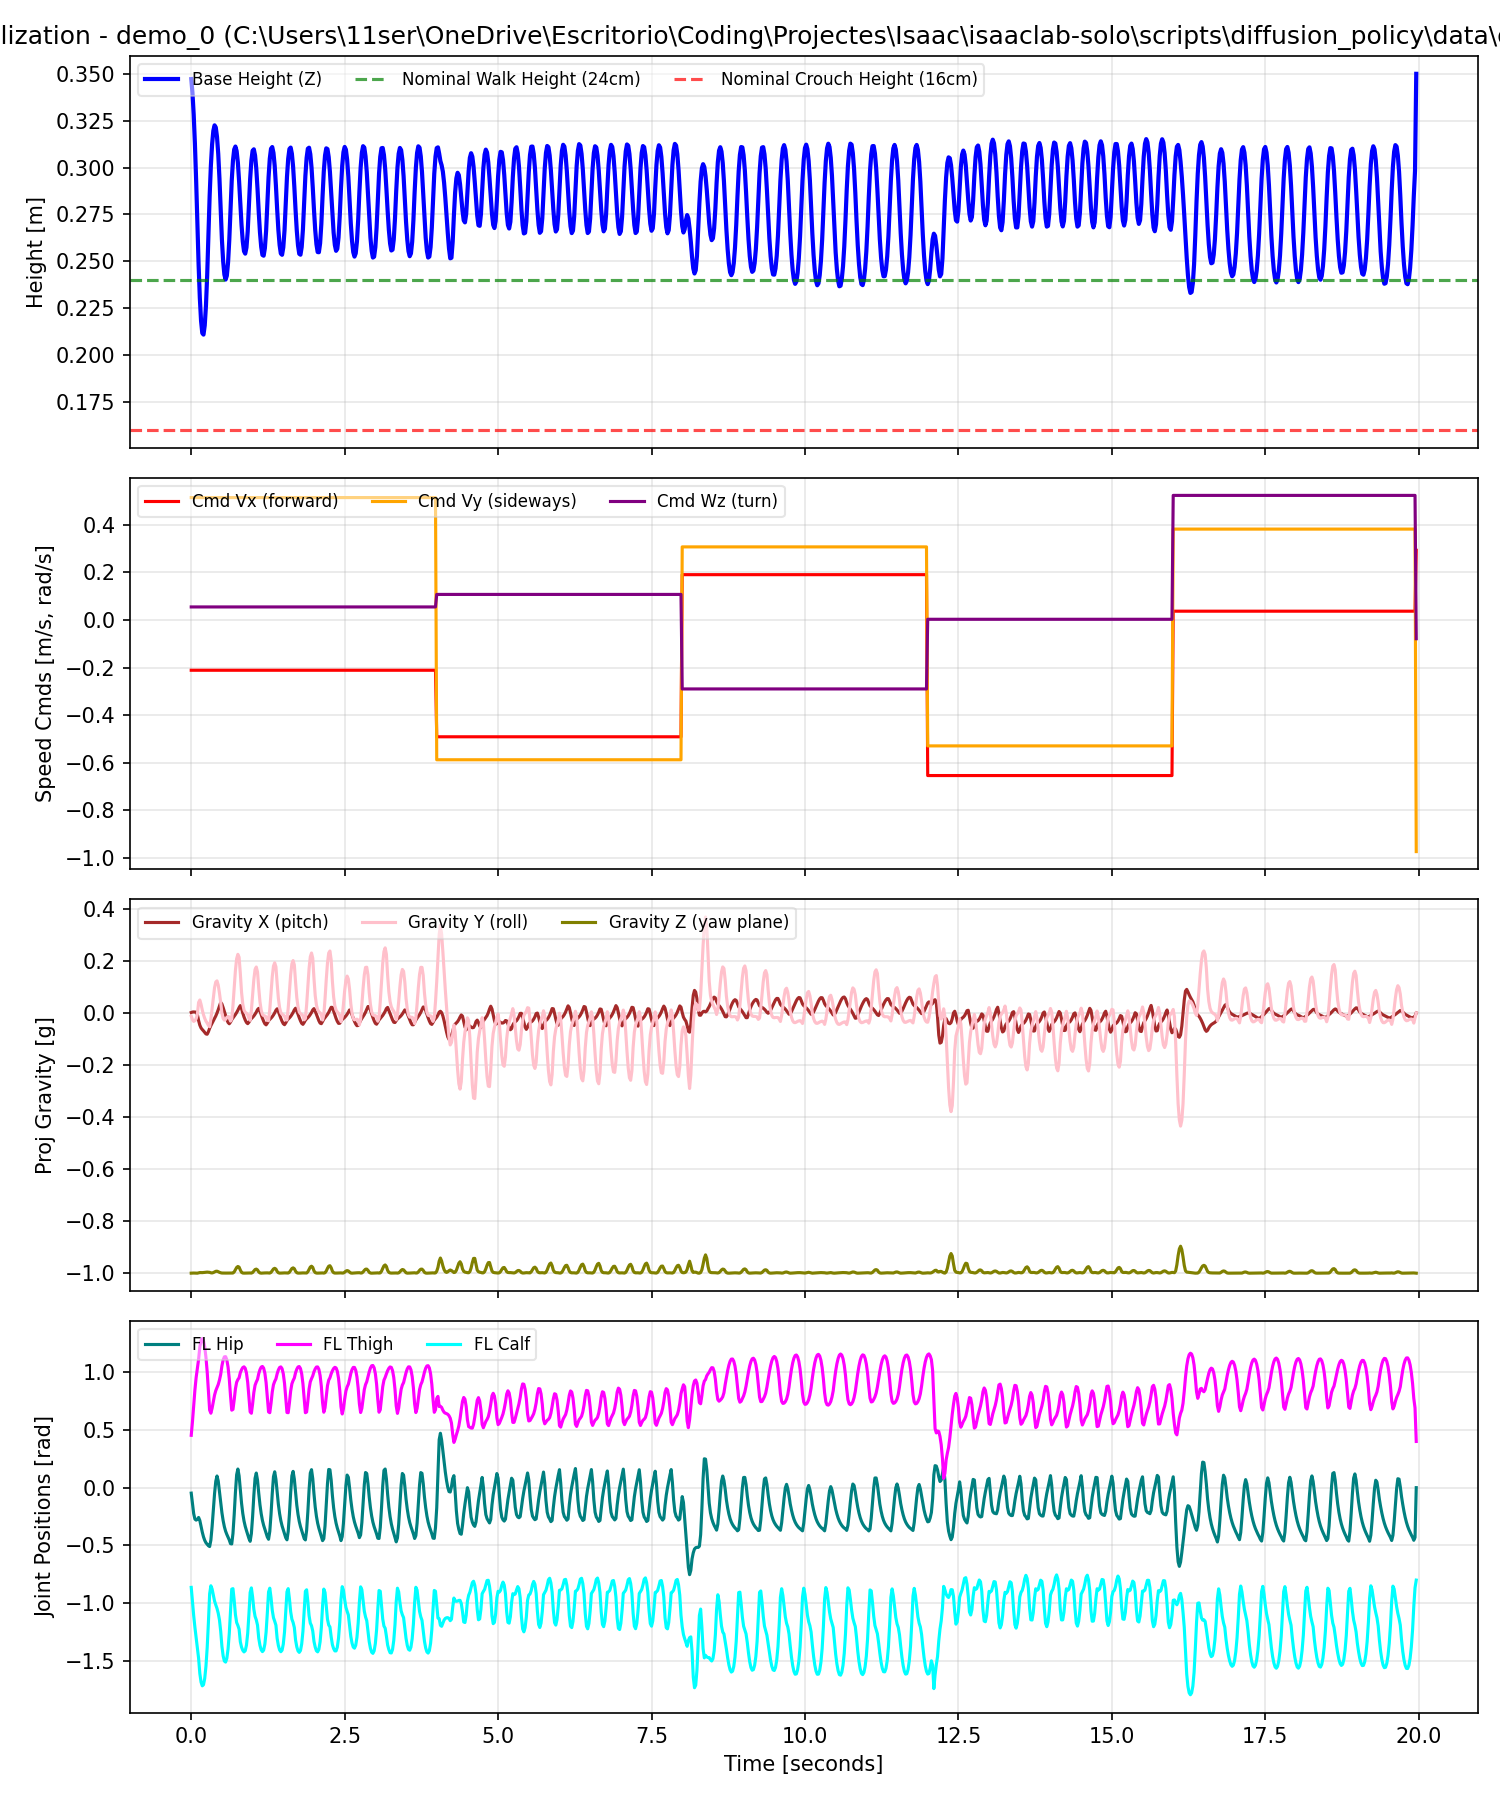
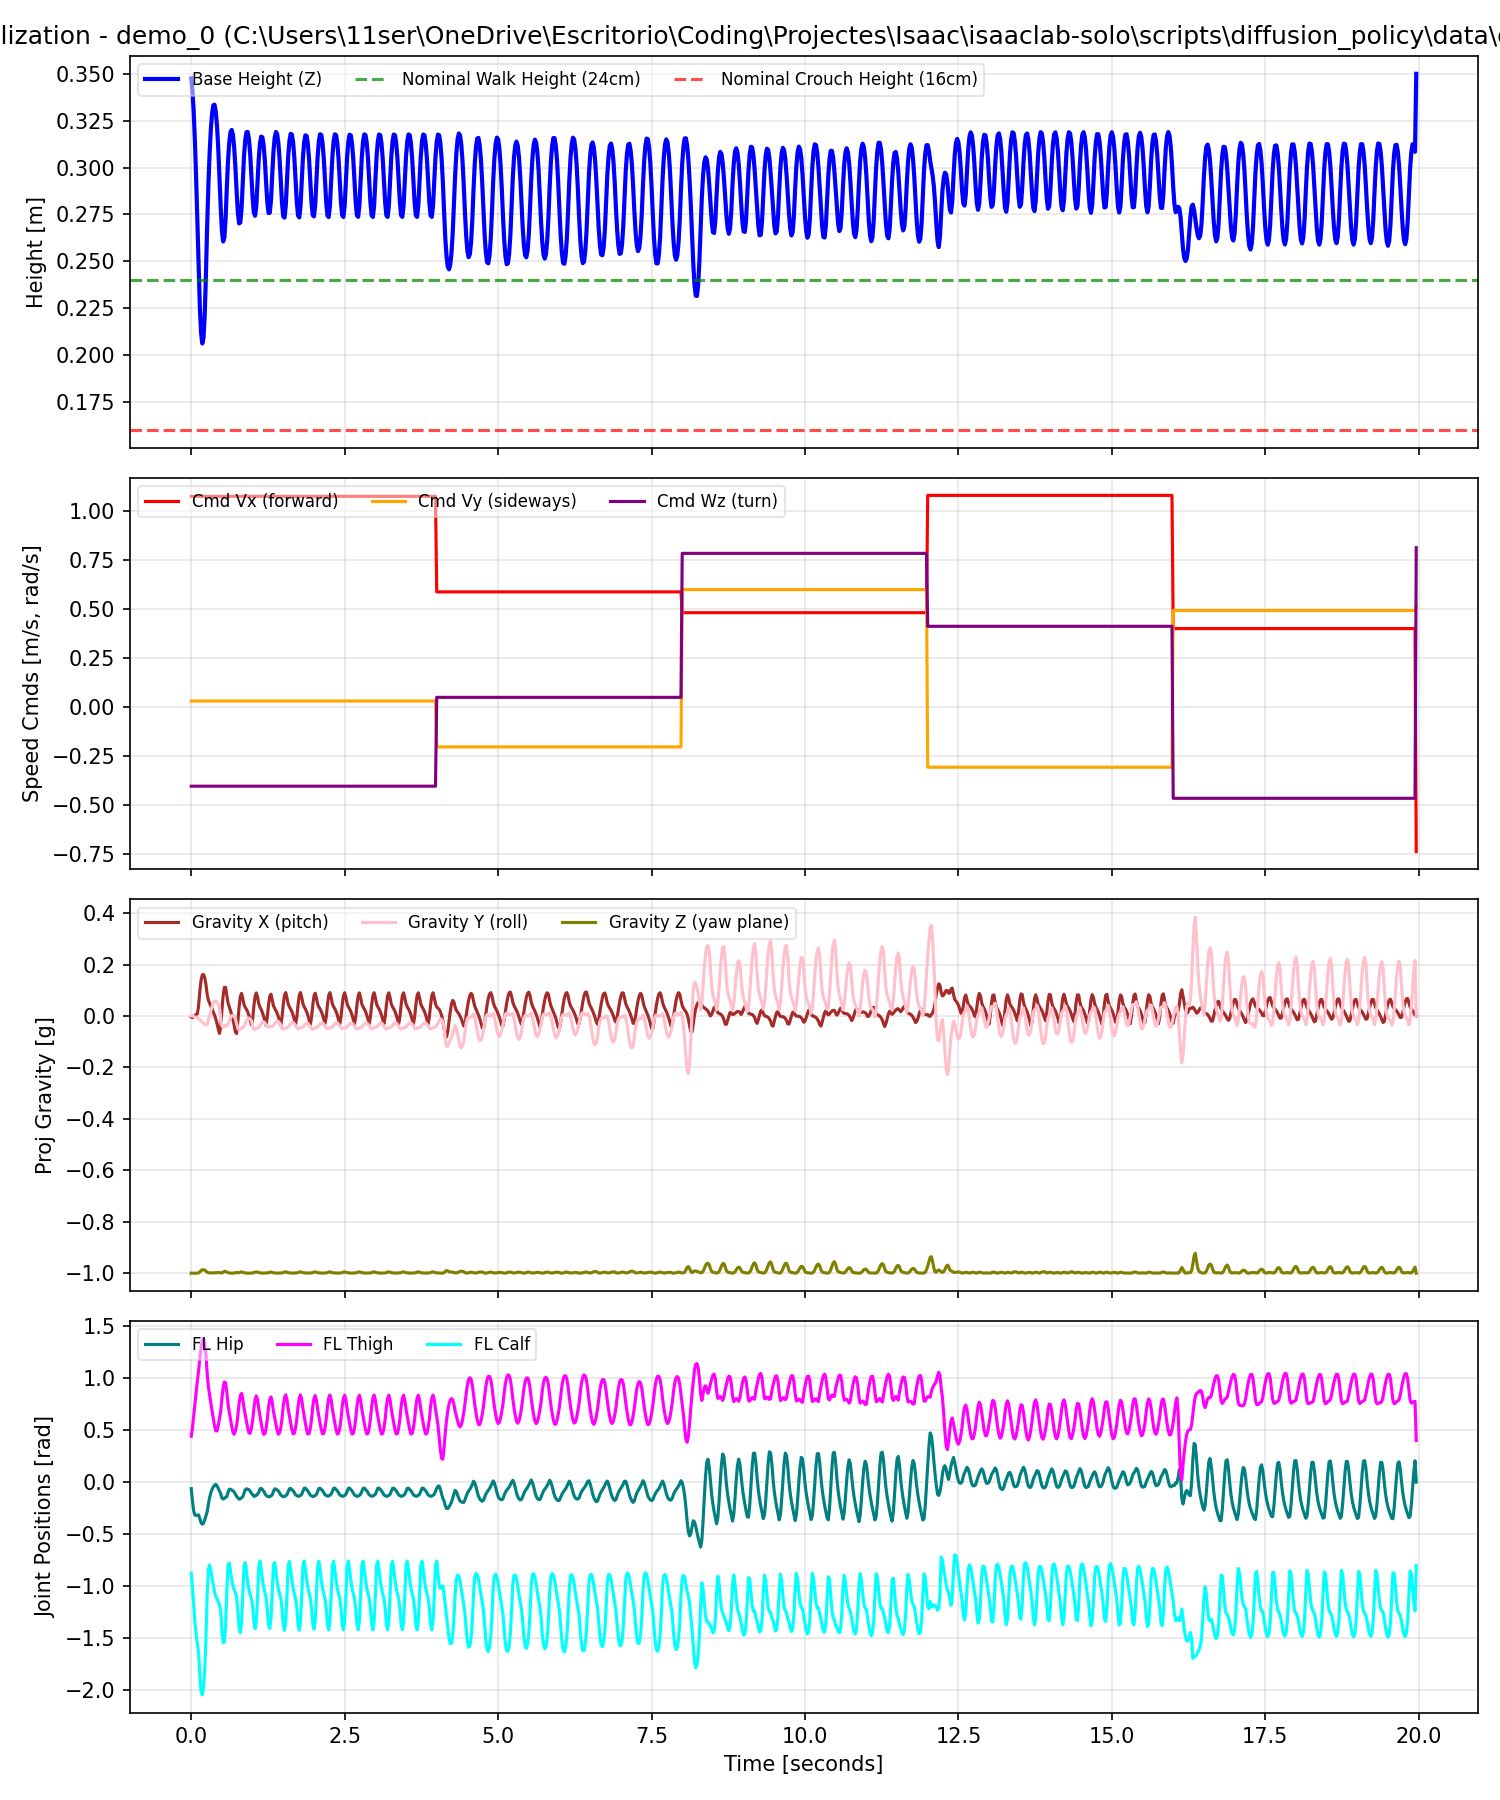
better collection

diff --git a/scripts/diffusion_policy/data/collect_data.py b/scripts/diffusion_policy/data/collect_data.py
@@ -48,6 +48,8 @@ parser.add_argument("--min_demo_len", type=int, default=100, help="Minimum step 
 parser.add_argument("--min_steps_per_skill", type=int, default=150, help="Minimum steps to run a skill in chained mode before transition.")
 parser.add_argument("--max_steps_per_skill", type=int, default=300, help="Maximum steps to run a skill in chained mode before transition.")
 parser.add_argument("--survival_check_steps", type=int, default=100, help="Steps to survive after a transition for the episode to be kept.")
+parser.add_argument("--transition_blend_steps", type=int, default=8, help="Number of steps over which to blend actions during policy transitions. Set to 0 to disable.")
+parser.add_argument("--transition_blend_type", type=str, choices=["linear", "cosine"], default="cosine", help="Interpolation curve for blending actions.")
 
 # Add standard app launcher CLI arguments
 AppLauncher.add_app_launcher_args(parser)
@@ -184,6 +186,10 @@ def main(env_cfg: Any, agent_cfg: Any):
     last_transition_step = np.zeros(args_cli.num_envs, dtype=int)
     has_transitioned = np.zeros(args_cli.num_envs, dtype=bool)
     
+    # Blending state tracking variables
+    old_policies = list(current_policies) # Track previous active policies for blending
+    transition_steps_left = np.zeros(args_cli.num_envs, dtype=int) # Steps left in transition blending phase
+    
     # Initialize environment commands
     for i in range(args_cli.num_envs):
         resample_env_command(i, current_policies[i], raw_env._commands, device)
@@ -207,15 +213,47 @@ def main(env_cfg: Any, agent_cfg: Any):
                 actions = policies["walk"](obs)
                 obs, _, dones, _ = vec_env.step(actions)
         else:
-            # In chained mode, batch observations and run active policies
-            actions = torch.zeros((args_cli.num_envs, vec_env.num_actions), device=device)
+            # In chained mode, batch observations and run target policies
+            actions_new = torch.zeros((args_cli.num_envs, vec_env.num_actions), device=device)
             policy_obs = obs["policy"] if isinstance(obs, dict) else obs
             
+            # Query active target policies
             for name, policy_fn in policies.items():
                 env_mask = torch.tensor([cp == name for cp in current_policies], dtype=torch.bool, device=device)
                 if env_mask.any():
                     with torch.inference_mode():
-                        actions[env_mask] = policy_fn(policy_obs[env_mask])
+                        actions_new[env_mask] = policy_fn(policy_obs[env_mask])
+            
+            # Handle action blending during transitions
+            if args_cli.transition_blend_steps > 0:
+                actions = actions_new.clone()
+                in_transition = transition_steps_left > 0
+                if in_transition.any():
+                    # Convert to PyTorch tensor on the correct device to allow bitwise operations
+                    in_transition_tensor = torch.tensor(in_transition, dtype=torch.bool, device=device)
+                    
+                    # Query old policies for environments currently in blending transition
+                    actions_old = torch.zeros((args_cli.num_envs, vec_env.num_actions), device=device)
+                    for name, policy_fn in policies.items():
+                        old_mask = in_transition_tensor & torch.tensor([op == name for op in old_policies], dtype=torch.bool, device=device)
+                        if old_mask.any():
+                            with torch.inference_mode():
+                                actions_old[old_mask] = policy_fn(policy_obs[old_mask])
+                    
+                    # Compute blending alpha factor [0.0 to 1.0]
+                    steps_in = args_cli.transition_blend_steps - transition_steps_left[in_transition]
+                    alphas_linear = torch.tensor(steps_in / args_cli.transition_blend_steps, dtype=torch.float32, device=device)
+                    
+                    if args_cli.transition_blend_type == "cosine":
+                        alphas = 0.5 * (1.0 - torch.cos(torch.pi * alphas_linear))
+                    else:
+                        alphas = alphas_linear
+                    
+                    # Blend: actions = (1 - alpha) * actions_old + alpha * actions_new
+                    alphas_expanded = alphas.unsqueeze(-1)
+                    actions[in_transition_tensor] = (1.0 - alphas_expanded) * actions_old[in_transition_tensor] + alphas_expanded * actions_new[in_transition_tensor]
+            else:
+                actions = actions_new
             
             obs, _, dones, _ = vec_env.step(actions)
 
@@ -257,7 +295,11 @@ def main(env_cfg: Any, agent_cfg: Any):
             if args_cli.mode == "chained" and steps_left_in_policy[i] <= 0:
                 old_policy = current_policies[i]
                 new_policy = random.choice([p for p in policy_names if p != old_policy])
+                
+                # Update policies and start blending window
+                old_policies[i] = old_policy
                 current_policies[i] = new_policy
+                transition_steps_left[i] = args_cli.transition_blend_steps
                 
                 # Resettle steps left and resample speed commands
                 steps_left_in_policy[i] = random.randint(args_cli.min_steps_per_skill, args_cli.max_steps_per_skill)
@@ -277,6 +319,15 @@ def main(env_cfg: Any, agent_cfg: Any):
                 print(f"[FILTER] Discarded env {i} due to active fall detection (gravity Z={projected_gravity[i, 2]:.2f}, height={root_pos_w[i, 2]:.2f}m). Resetting...")
                 with torch.inference_mode():
                     raw_env._reset_idx(torch.tensor([i], device=device))
+                # Reset environment tracking states for new episode
+                current_policies[i] = random.choice(policy_names)
+                old_policies[i] = current_policies[i]
+                transition_steps_left[i] = 0
+                steps_left_in_policy[i] = random.randint(args_cli.min_steps_per_skill, args_cli.max_steps_per_skill)
+                steps_since_resample[i] = 0
+                last_transition_step[i] = 0
+                has_transitioned[i] = False
+                resample_env_command(i, current_policies[i], raw_env._commands, device)
                 # Skip normal reset check as it was handled manually
                 continue
 
@@ -329,11 +380,17 @@ def main(env_cfg: Any, agent_cfg: Any):
 
                 # Reset environment tracking states for new episode
                 current_policies[i] = random.choice(policy_names)
+                old_policies[i] = current_policies[i]
+                transition_steps_left[i] = 0
                 steps_left_in_policy[i] = random.randint(args_cli.min_steps_per_skill, args_cli.max_steps_per_skill)
                 steps_since_resample[i] = 0
                 last_transition_step[i] = 0
                 has_transitioned[i] = False
                 resample_env_command(i, current_policies[i], raw_env._commands, device)
+
+        # Decrement transition blend steps at the end of the simulation step
+        if args_cli.mode == "chained" and args_cli.transition_blend_steps > 0:
+            transition_steps_left = np.maximum(0, transition_steps_left - 1)
 
         steps_collected += 1
         if steps_collected % 500 == 0:

diff --git a/scripts/diffusion_policy/data/play_trajectory.py b/scripts/diffusion_policy/data/play_trajectory.py
@@ -74,9 +74,6 @@ def main(env_cfg: Any, agent_cfg: Any):
         
         # Load physical states for kinematic replay
         root_pos_w = demo_grp["obs/root_pos_w"][:]
-        # Shift coordinates to start at (0, 0) relative to environment 0
-        root_pos_w[:, 0] -= root_pos_w[0, 0]
-        root_pos_w[:, 1] -= root_pos_w[0, 1]
         
         root_quat_w = demo_grp["obs/root_quat_w"][:]
         joint_pos_seq = demo_grp["obs/joint_pos"][:]
@@ -125,6 +122,8 @@ def main(env_cfg: Any, agent_cfg: Any):
         
         # Reset env to starting pose
         obs = vec_env.reset()
+        # Capture the initial starting position from the reset state
+        start_pos = raw_env._robot.data.root_pos_w[0].clone()
         time.sleep(0.5)
 
         for t in range(num_steps):
@@ -137,7 +136,8 @@ def main(env_cfg: Any, agent_cfg: Any):
                 obs, _, _, _ = vec_env.step(action_step)
             else:
                 # Kinematic playback (override simulator state to match recorded physical trajectory)
-                root_pose = torch.cat([root_pos_t[t], root_quat_t[t]], dim=-1).unsqueeze(0) # (1, 7)
+                curr_root_pos = root_pos_t[t] - root_pos_t[0] + start_pos
+                root_pose = torch.cat([curr_root_pos, root_quat_t[t]], dim=-1).unsqueeze(0) # (1, 7)
                 j_pos = joint_pos_t[t].unsqueeze(0) # (1, 12)
                 j_vel = joint_vel_t[t].unsqueeze(0) # (1, 12)
                 
@@ -147,9 +147,9 @@ def main(env_cfg: Any, agent_cfg: Any):
                     j_pos, j_vel, joint_ids=raw_env._joint_ids, env_ids=torch.tensor([0], device=device)
                 )
                 
-                # Write back buffers and step rendering/simulation frame
+                # Write back buffers and render the visual frame without stepping physics
                 raw_env.scene.write_data_to_sim()
-                raw_env.sim.step(render=True)
+                raw_env.sim.render()
                 raw_env.scene.update(dt=raw_env.physics_dt)
             
             # Update camera to follow the robot
